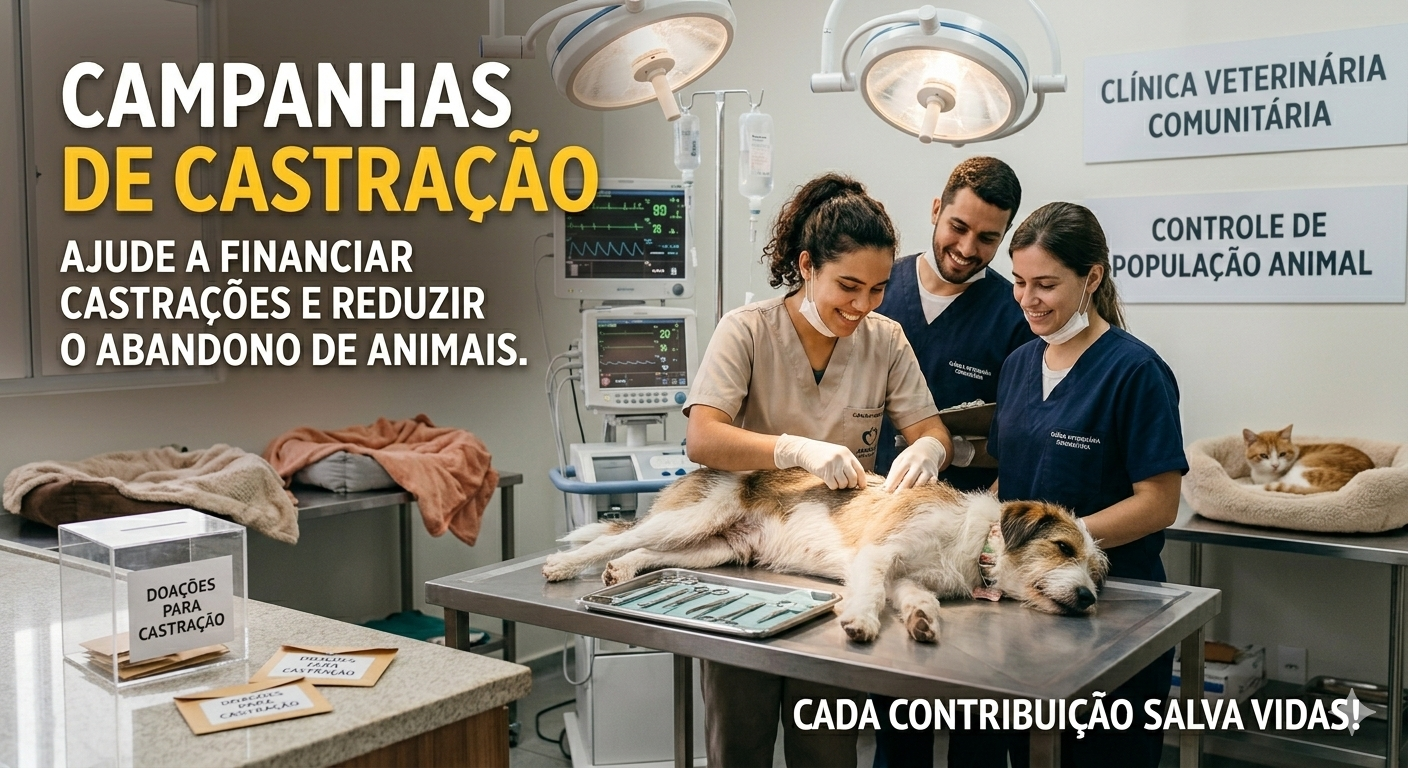
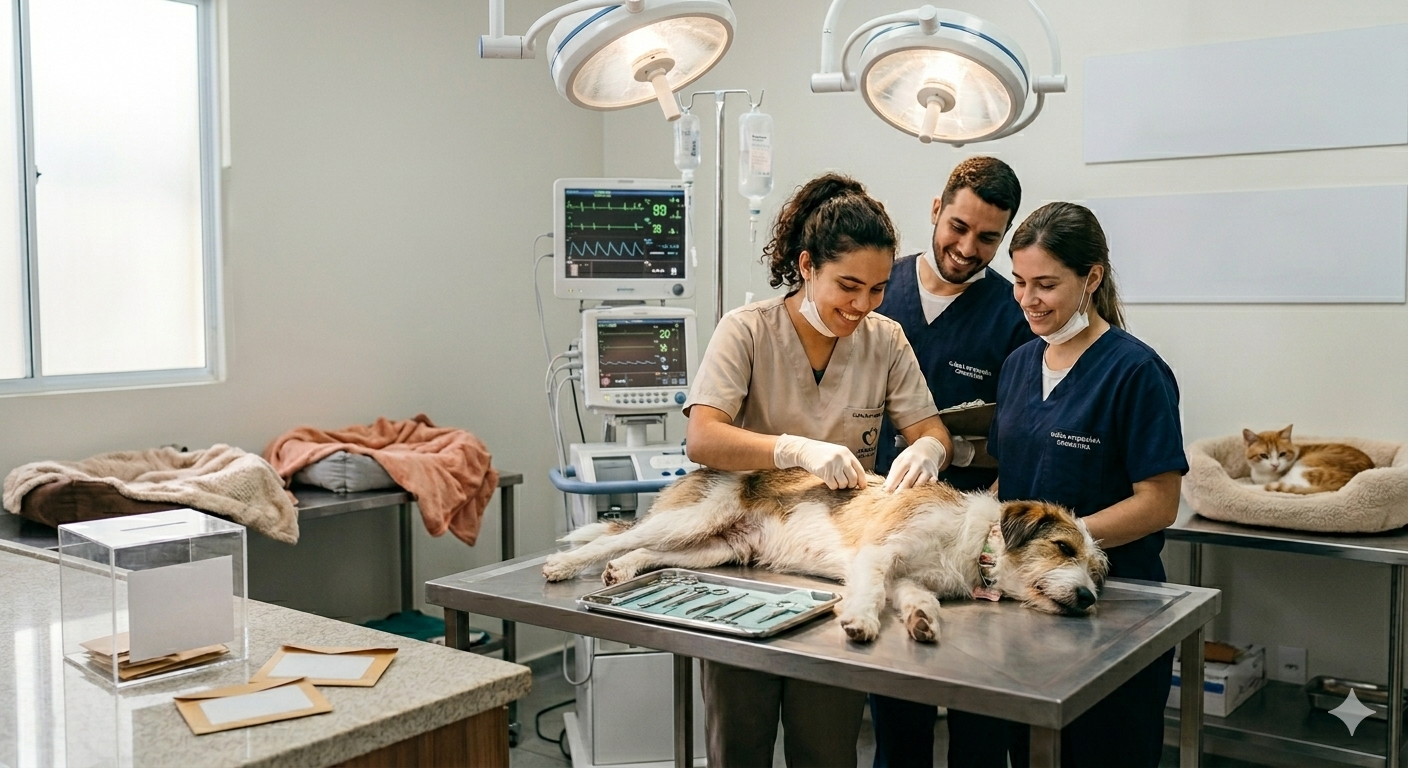
adicionadas imagens na pag de vakinhas

diff --git a/src/pages/vakinha-doacao.html b/src/pages/vakinha-doacao.html
@@ -55,7 +55,7 @@
           </div>
 
           <div class="vaquinha-bloco">
-            <img src="../../assets/vakinha-doacao/alimento-abrigo.png" alt="Alimentação e Abrigo">
+            <img src="../../assets/vakinha-doacao/alimentacao-abrigo.png" alt="Alimentação e Abrigo">
             <div class="vaquinha-info">
               <h3>Alimentação e Abrigo</h3>
               <p>Garantimos comida e abrigo para animais em situação de risco. Sua ajuda faz a diferença!</p>
